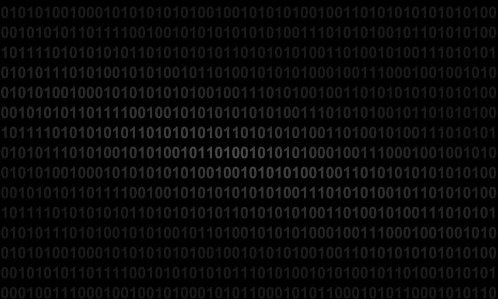
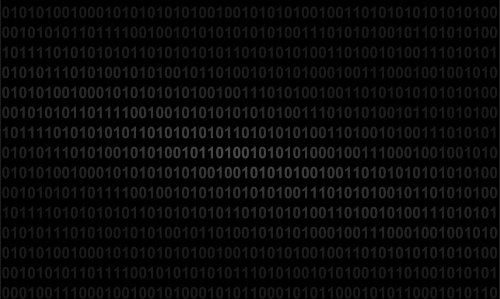
background fixed

diff --git a/app/assets/stylesheets/custom.css.scss b/app/assets/stylesheets/custom.css.scss
@@ -1,6 +1,9 @@
 @import "bootstrap";
 
-$grayLighter: #999;
+$grayLighter: #80b3b3;
+$blueLighter: #80ffcc;
+$blueDarker: #0080cc;
+$greenDarker: #339980;
 
 @mixin box_sizing {
   -moz-box-sizing: border-box;
@@ -18,7 +21,8 @@ html{
 }
 body{
   padding-top:60px;
-  background-image:url('binary_code.jpg');
+  background-image:url(../images/binary_code.png);
+  background-position:none;
 }
 section{
   overflow:auto;
@@ -74,9 +78,6 @@ footer{
   color:$grayLighter;
   a{
   color:#555;
-  }
-  &:hover{
-    color:#222;
   }
   small{
     float:left;
